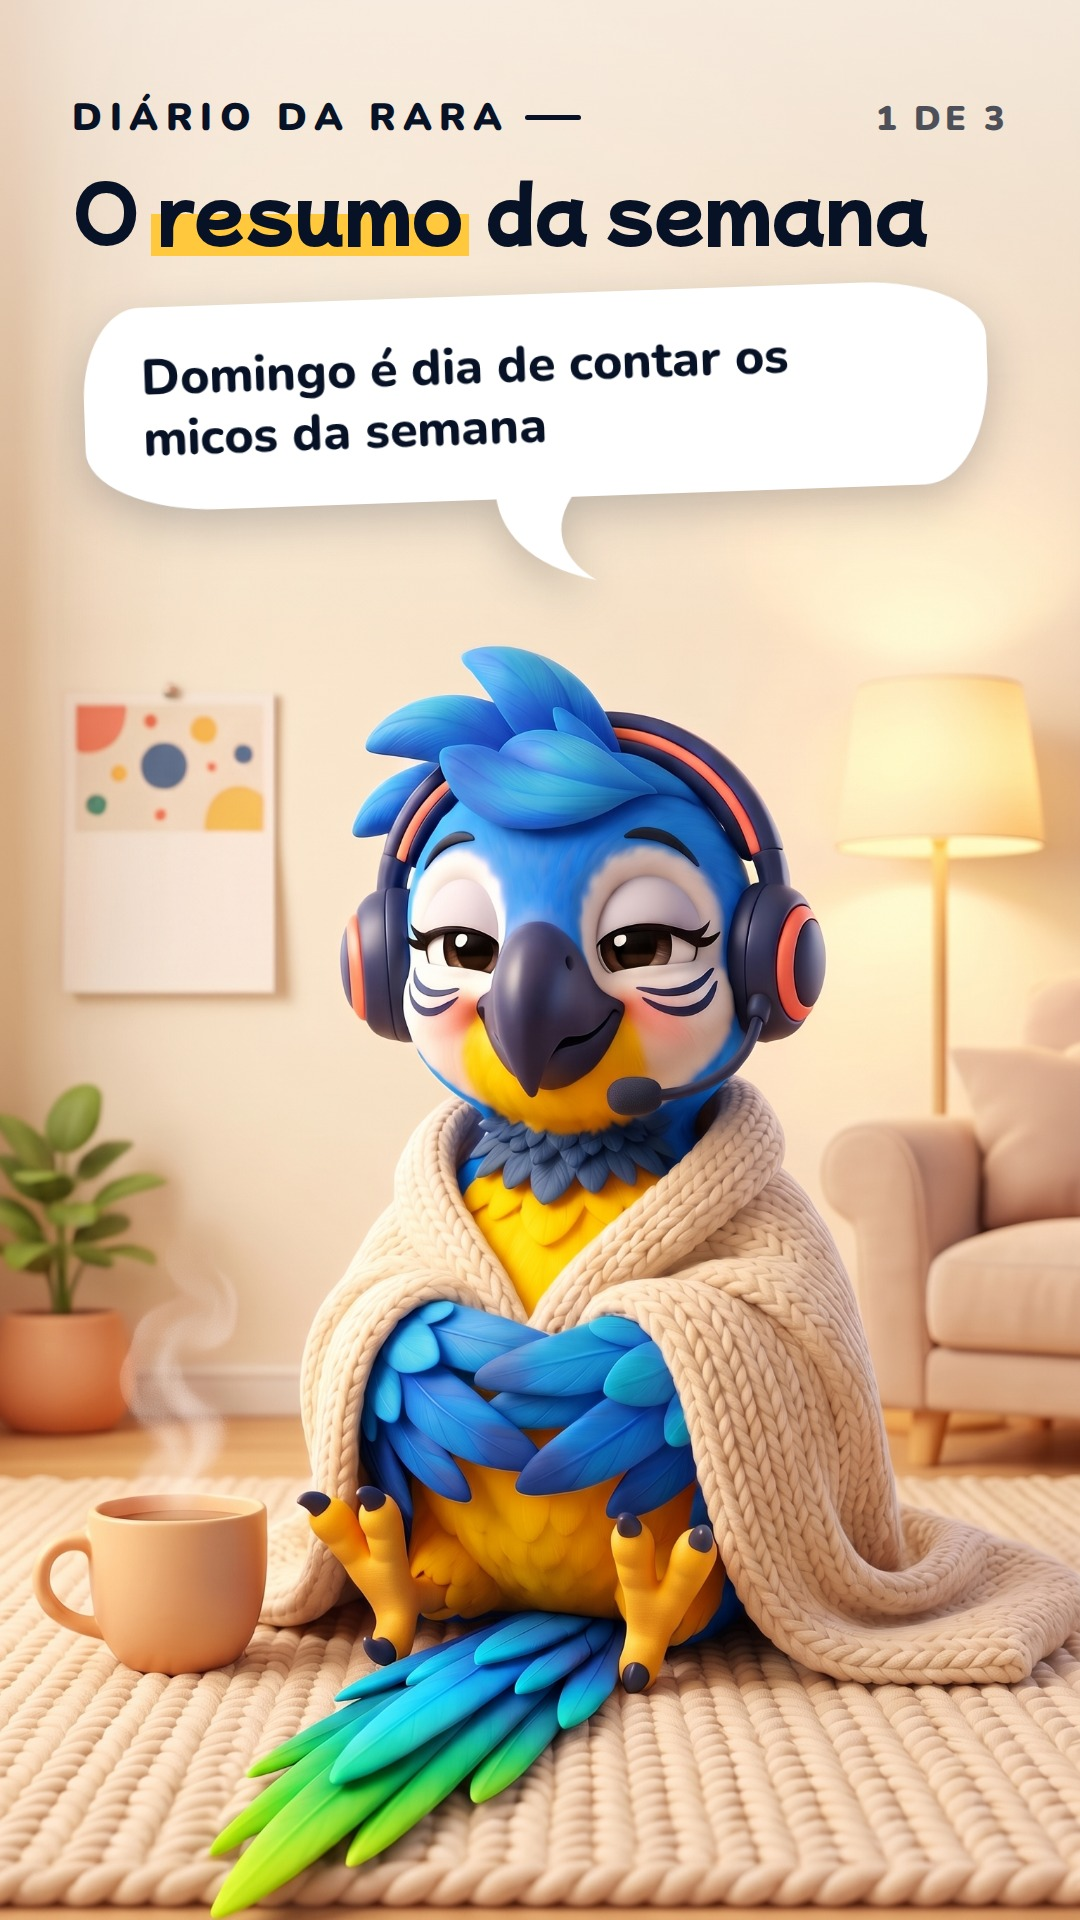
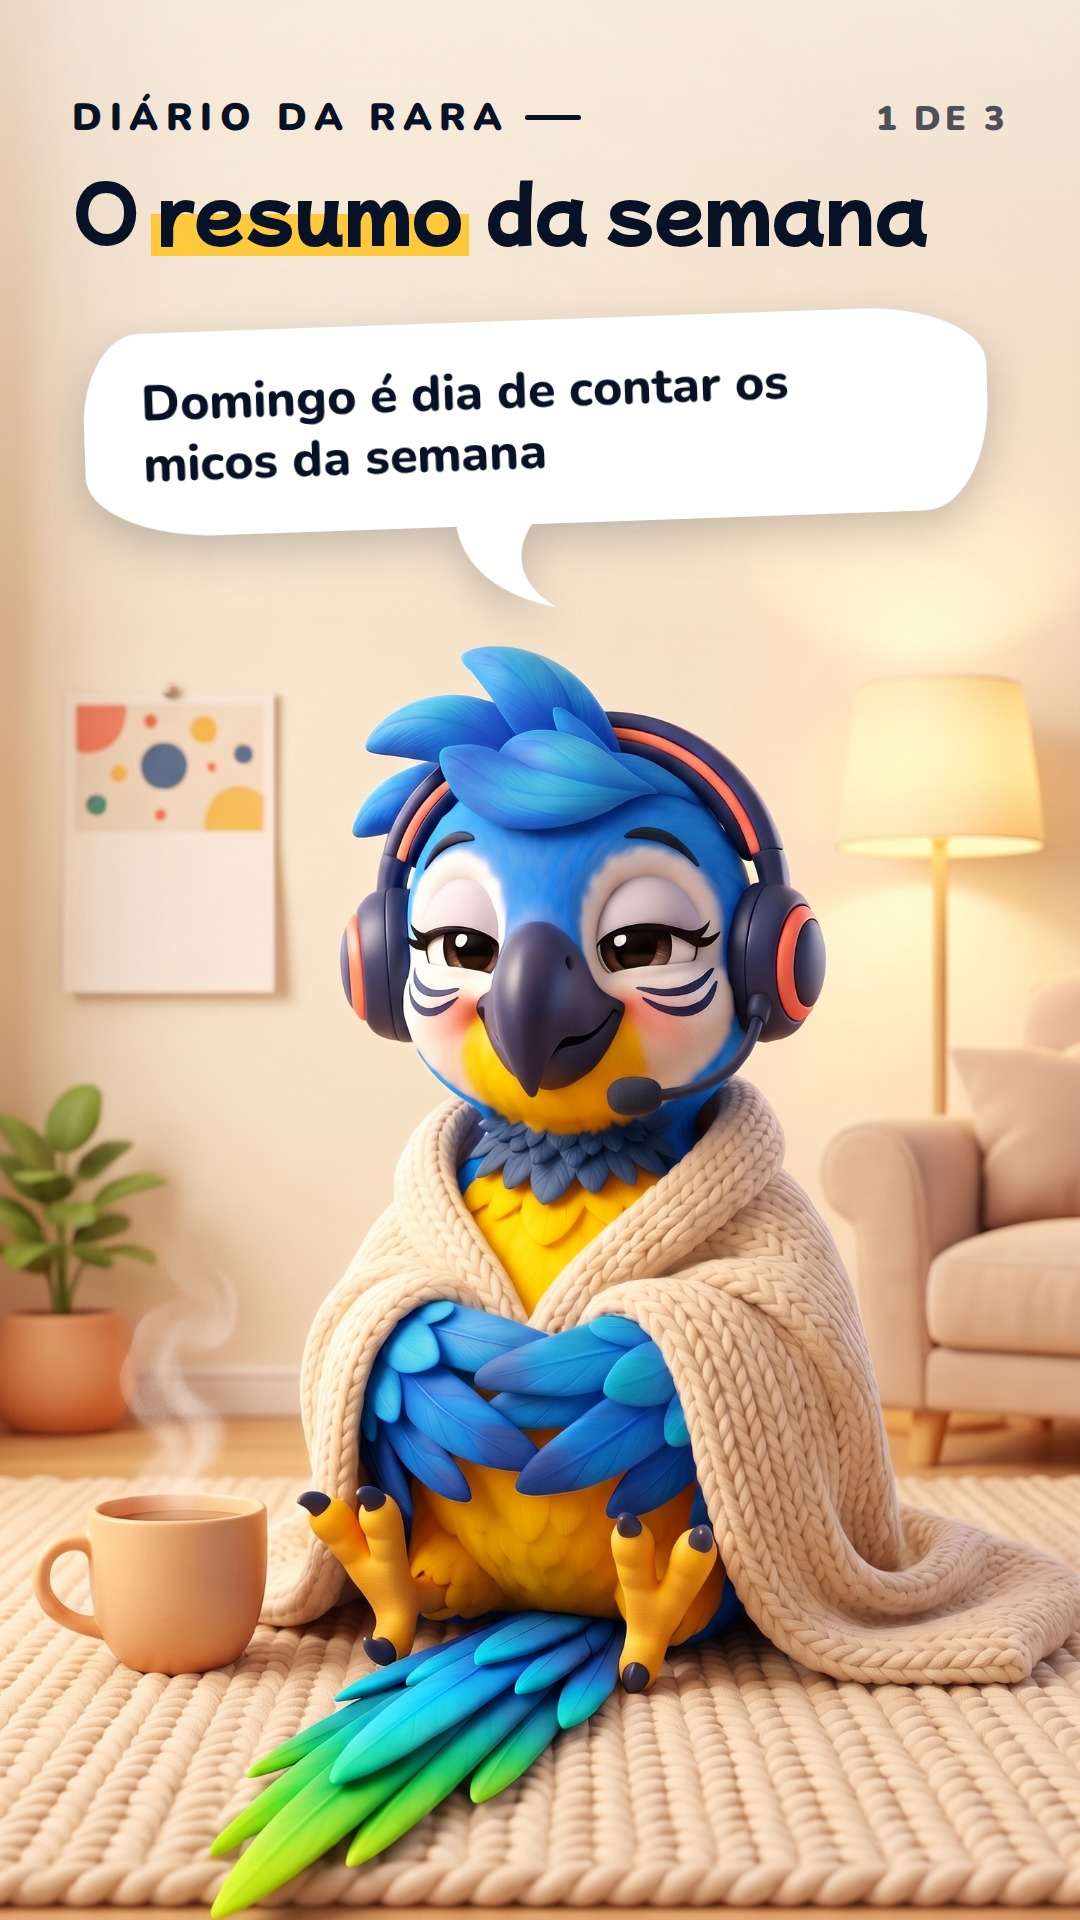
fix(arte): balão mais próximo da cabeça e rabinho apontando para quem fala

Changed region(s): [[0.0611, 0.125, 0.9167, 0.3125], [0.8861, 0.2188, 0.9167, 0.25]]

diff --git a/semana_23_29_diario/compor_telas.py b/semana_23_29_diario/compor_telas.py
@@ -5,6 +5,7 @@ import json, pathlib, subprocess, html
 HERE = pathlib.Path(__file__).resolve().parent
 SC = HERE.parent / 'semana1' / '_scripts'
 # topo do personagem em px (1920): onde o balão NÃO pode chegar
+HX = {'seg':[540,540,540],'qua':[560,560,560],'sex':[470,480,480],'sab':[590,590,780],'dom':[570,570,570]}
 EPS = {
  'seg': dict(img=['seg_escritorio_v1.jpg', 'seg_2.jpg', 'seg_3.jpg'], sel='DIÁRIO DA RARA', topo=[613, 613, 470], titulo='Cheguei primeiro', kw='primeiro',
    telas=[ ['Hoje eu cheguei às 7h e o escritório inteiro estava vazio, só pra mim'],
@@ -50,7 +51,9 @@ def tela(ep, d, i, linhas):
     t = d['titulo'].replace(d['kw'], f"<b>{d['kw']}</b>")
     bal = ''.join(f'<div>{l}</div>' if not l.startswith('<small') else l for l in linhas)
     titulo = f'<div class="tit">{t}</div>' if i == 0 else ''
-    cauda = (400, '') if i % 2 == 0 else (540, 'transform:scaleX(-1);')
+    hx = HX[ep][i]
+    esq = (i % 2 == 0)
+    cauda = (max(40, min(660, hx - 210)), '') if esq else (max(40, min(660, hx - 70)), 'transform:scaleX(-1);')
     return f"""<!doctype html><html lang="pt-BR"><head><meta charset="utf-8"><style>{CSS}</style></head><body><div id="post">
 <div class="bg" style="background-image:url('../../semana_23_29_diario/geradas/{d['img'][i]}')"></div><div class="veil"></div>
 <div class="sel">{d['sel']}</div><div class="pg">{i+1} DE 3</div>{titulo}
@@ -60,7 +63,7 @@ const b=document.getElementById('bal');const topo={d['topo'][i]};const bottomMax
 // ancora o balão logo acima do topo do personagem (rabinho 36 px) e deixa crescer para cima
 const tit=document.querySelector('.tit');const minTop=tit?(tit.offsetTop+tit.offsetHeight+28):150;
 let fs=50,sm=40;
-function ajusta(){{b.style.fontSize=fs+'px';b.querySelectorAll('small').forEach(e=>{{e.style.fontSize=sm+'px'}});b.style.top=(bottomMax-70-b.offsetHeight)+'px';}}
+function ajusta(){{b.style.fontSize=fs+'px';b.querySelectorAll('small').forEach(e=>{{e.style.fontSize=sm+'px'}});b.style.top=(topo-124-b.offsetHeight)+'px';}}
 ajusta();
 while(b.offsetTop<minTop&&fs>40){{fs-=2;sm=Math.max(36,sm-2);ajusta();}}
 if(b.offsetTop<minTop){{b.style.padding='22px 40px';ajusta();}}
